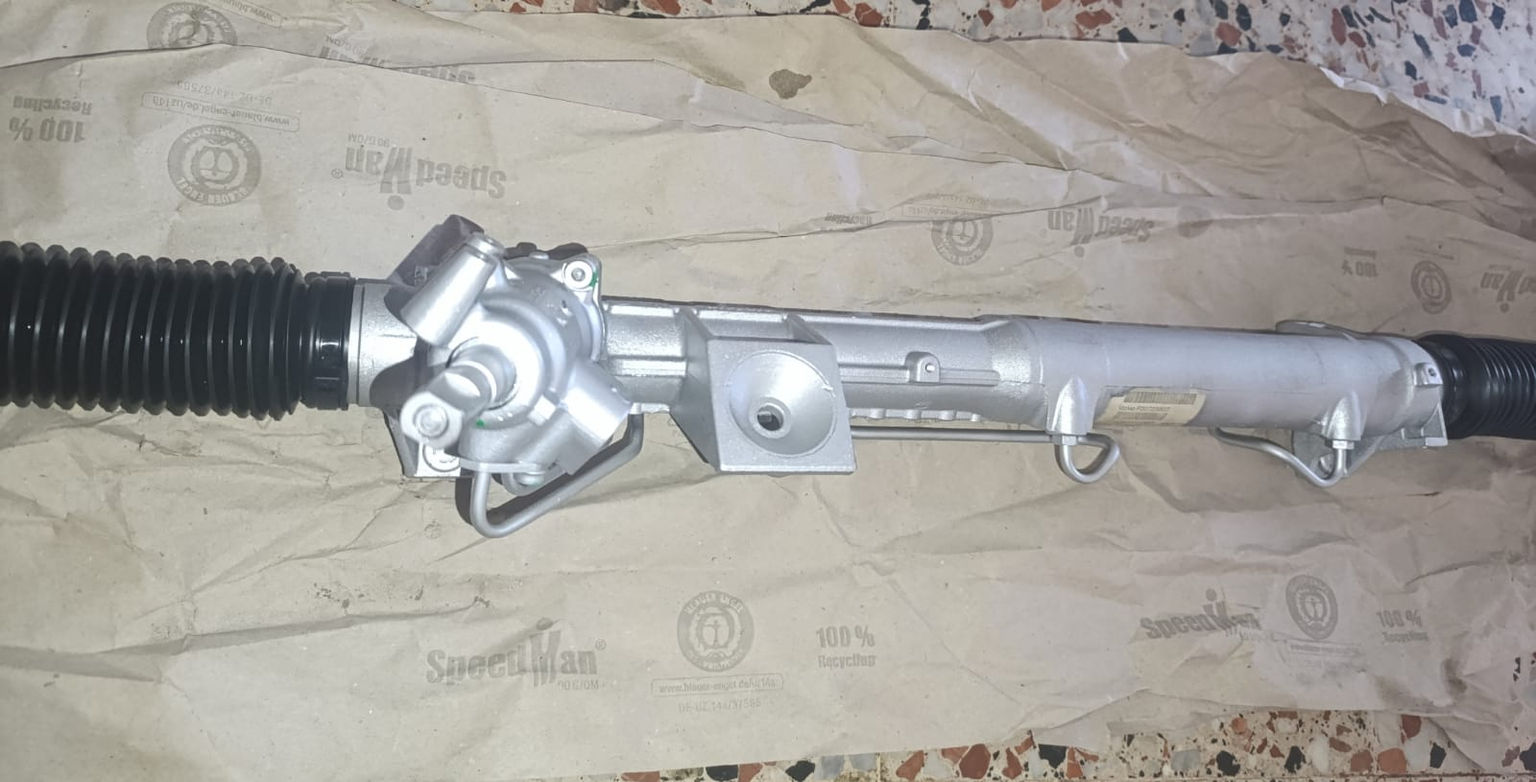
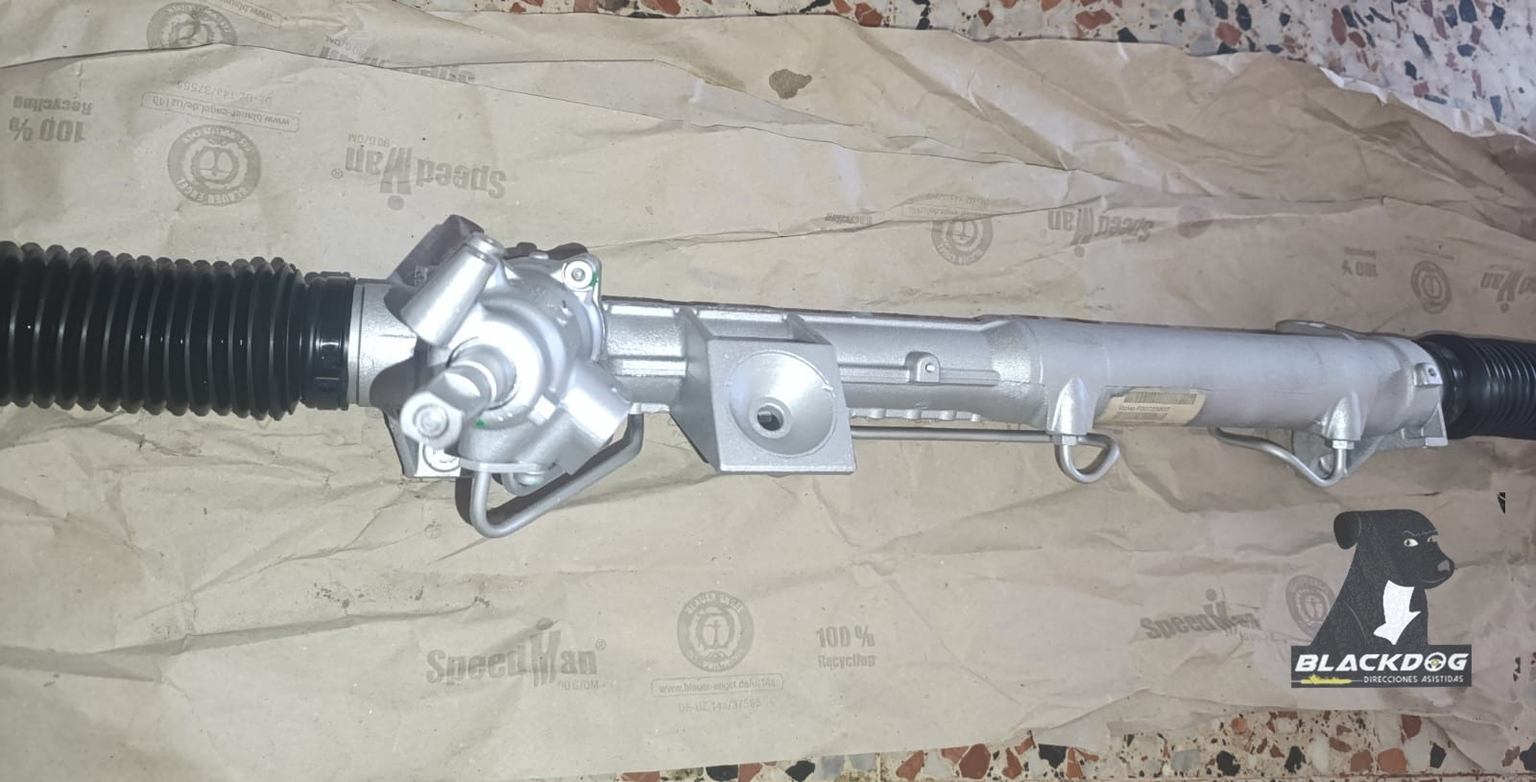
fix(volvo): incrustar la marca de agua en la foto en vez de CSS
El object-fit:contain de las tarjetas dejaba la marca de agua puesta por
CSS flotando en el espacio vacío cuando la foto no llenaba el recuadro.
Se incrusta el logo directamente en los pixeles de las 5 fotos del caso
XC70 (scripts/watermark-bake.ps1), igual que ya viene de fábrica en el
resto de fotos, y se quita el flag marca_agua para no duplicarla.

Changed region(s): [[0.8125, 0.6442, 0.9688, 0.8896]]

diff --git a/cremallera-volvo/caso-xc70-fuga-holgura-distribuidor/index.html b/cremallera-volvo/caso-xc70-fuga-holgura-distribuidor/index.html
@@ -1,4 +1,4 @@
-<!DOCTYPE html><!-- build:20260825015527 -->
+<!DOCTYPE html><!-- build:20260825020107 -->
 <html lang="es">
 <head>
 <meta charset="UTF-8">
@@ -34,7 +34,7 @@ j=d.createElement(s),dl=l!='dataLayer'?'&l='+l:'';j.async=true;j.src=
 </script>
 <meta name="robots" content="index, follow, max-snippet:-1, max-image-preview:large, max-video-preview:-1">
 <link rel="canonical" href="https://www.reparacion-cremallera-direccion.com/cremallera-volvo/caso-xc70-fuga-holgura-distribuidor/">
-<meta name="viewport" content="width=device-width, initial-scale=1.0"><link rel="stylesheet" href="/css/style.css?v=20260825015536">
+<meta name="viewport" content="width=device-width, initial-scale=1.0"><link rel="stylesheet" href="/css/style.css?v=20260825020107">
 <title>Volvo XC70 — Fuga y holgura en el distribuidor · Caso real · BLACKDOG</title>
 <meta name="description" content="Caso real: Volvo XC70, fuga y holgura en el distribuidor. Reparación documentada con fotos, sin inventar nada — BLACKDOG, Julián Márquez.">
 <meta property="og:title" content="Volvo XC70 — Fuga y holgura en el distribuidor · Caso real · BLACKDOG">
@@ -132,7 +132,7 @@ height="0" width="0" style="display:none;visibility:hidden"></iframe></noscript>
     <div class="modelo-ref" style="margin-top:6px">Referencia: Volvo P30723807</div>
   </div>
 
-  <div class="caso-hero-img foto-wm reveal" style="margin-top:24px">
+  <div class="caso-hero-img  reveal" style="margin-top:24px">
     <img src="/img/cremallera_reparada_volvo_xc70_fuga_holgura_distribuidor_terminada.jpg" alt="Cremallera de dirección Volvo XC70 reparada, terminada" loading="lazy">
   </div>
 
@@ -144,10 +144,10 @@ height="0" width="0" style="display:none;visibility:hidden"></iframe></noscript>
     <span class="eyebrow">La pieza llegó al taller</span>
   </div>
   <p style="color:var(--bone-dim)">Al revisarla, el problema no era solo la fuga que había avisado el otro taller: el distribuidor tenía una holgura considerable.</p>
-  <div class="caso-llegada-fotos reveal"><figure><div class="foto-wm"><img class="lightbox-img" src="/img/cremallera_volvo_xc70_distribuidor_antes_oxidado.jpg" loading="lazy" alt="Distribuidor Volvo XC70 antes de reparar, oxidado"></div><figcaption>Antes</figcaption></figure>
-<figure><div class="foto-wm"><img class="lightbox-img" src="/img/cremallera_volvo_xc70_fuga_liquido_hidraulico.jpg" loading="lazy" alt="Fuga de líquido hidráulico en cremallera Volvo XC70"></div><figcaption>La fuga que avisó el cliente</figcaption></figure>
-<figure><div class="foto-wm"><img class="lightbox-img" src="/img/cremallera_volvo_xc70_referencia_p30723807.jpg" loading="lazy" alt="Referencia Volvo P30723807 en la etiqueta de la pieza"></div><figcaption>Referencia P30723807</figcaption></figure>
-<figure><div class="foto-wm"><img class="lightbox-img" src="/img/cremallera_volvo_xc70_distribuidor_terminado_detalle.jpg" loading="lazy" alt="Distribuidor Volvo XC70 terminado, detalle"></div><figcaption>Después</figcaption></figure></div>
+  <div class="caso-llegada-fotos reveal"><figure><div class=""><img class="lightbox-img" src="/img/cremallera_volvo_xc70_distribuidor_antes_oxidado.jpg" loading="lazy" alt="Distribuidor Volvo XC70 antes de reparar, oxidado"></div><figcaption>Antes</figcaption></figure>
+<figure><div class=""><img class="lightbox-img" src="/img/cremallera_volvo_xc70_fuga_liquido_hidraulico.jpg" loading="lazy" alt="Fuga de líquido hidráulico en cremallera Volvo XC70"></div><figcaption>La fuga que avisó el cliente</figcaption></figure>
+<figure><div class=""><img class="lightbox-img" src="/img/cremallera_volvo_xc70_referencia_p30723807.jpg" loading="lazy" alt="Referencia Volvo P30723807 en la etiqueta de la pieza"></div><figcaption>Referencia P30723807</figcaption></figure>
+<figure><div class=""><img class="lightbox-img" src="/img/cremallera_volvo_xc70_distribuidor_terminado_detalle.jpg" loading="lazy" alt="Distribuidor Volvo XC70 terminado, detalle"></div><figcaption>Después</figcaption></figure></div>
 
   <div class="sec-head" style="margin-top:40px">
     <span class="eyebrow">Resultado</span>
@@ -187,6 +187,6 @@ height="0" width="0" style="display:none;visibility:hidden"></iframe></noscript>
   <div class="foot-bottom"><span>© BLACKDOG · Julián Márquez — Direcciones asistidas</span><span>Recibo y devuelvo piezas desde toda España</span></div>
 </div></footer>
 <a onclick="trackGA4('whatsapp_click',{location:'floating'})" class="wa-float" aria-label="WhatsApp" href="https://wa.me/34697501984?text=Hola%20Julian%2C%20tengo%20una%20cremallera%2Fcaja%20de%20direccion%20de%20un%20Volvo%20XC70%20%5Bano%5D.%20El%20problema%20es%20%5Bsintoma%5D.%20Vi%20el%20caso%20que%20teneis%20publicado%20y%20queria%20consultar%20el%20mio.%20Puedes%20decirme%20si%20tiene%20reparacion%20y%20darme%20una%20orientacion%20de%20precio%3F"><svg><use href="#wa"/></svg></a>
-<script src="/js/script.js?v=20260825015536"></script>
+<script src="/js/script.js?v=20260825020107"></script>
 </body>
 </html>

diff --git a/cremallera-alfa-romeo/caso-spider-pieza-donante/index.html b/cremallera-alfa-romeo/caso-spider-pieza-donante/index.html
@@ -1,4 +1,4 @@
-<!DOCTYPE html><!-- build:20260825015527 -->
+<!DOCTYPE html><!-- build:20260825020107 -->
 <html lang="es">
 <head>
 <meta charset="UTF-8">
@@ -34,7 +34,7 @@ j=d.createElement(s),dl=l!='dataLayer'?'&l='+l:'';j.async=true;j.src=
 </script>
 <meta name="robots" content="index, follow, max-snippet:-1, max-image-preview:large, max-video-preview:-1">
 <link rel="canonical" href="https://www.reparacion-cremallera-direccion.com/cremallera-alfa-romeo/caso-spider-pieza-donante/">
-<meta name="viewport" content="width=device-width, initial-scale=1.0"><link rel="stylesheet" href="/css/style.css?v=20260825015536">
+<meta name="viewport" content="width=device-width, initial-scale=1.0"><link rel="stylesheet" href="/css/style.css?v=20260825020107">
 <title>Alfa Romeo (pieza de donante Spider) — Pieza de donante, restauración preventiva · Caso real · BLACKDOG</title>
 <meta name="description" content="Caso real: Alfa Romeo (pieza de donante Spider), pieza de donante, restauración preventiva. Reparación documentada con fotos, sin inventar nada — BLACKDOG, Julián Márquez.">
 <meta property="og:title" content="Alfa Romeo (pieza de donante Spider) — Pieza de donante, restauración preventiva · Caso real · BLACKDOG">
@@ -184,6 +184,6 @@ height="0" width="0" style="display:none;visibility:hidden"></iframe></noscript>
   <div class="foot-bottom"><span>© BLACKDOG · Julián Márquez — Direcciones asistidas</span><span>Recibo y devuelvo piezas desde toda España</span></div>
 </div></footer>
 <a onclick="trackGA4('whatsapp_click',{location:'floating'})" class="wa-float" aria-label="WhatsApp" href="https://wa.me/34697501984?text=Hola%20Julian%2C%20tengo%20una%20cremallera%2Fcaja%20de%20direccion%20de%20un%20Alfa%20Romeo%20(pieza%20de%20donante%20Spider)%20%5Bano%5D.%20El%20problema%20es%20%5Bsintoma%5D.%20Vi%20el%20caso%20que%20teneis%20publicado%20y%20queria%20consultar%20el%20mio.%20Puedes%20decirme%20si%20tiene%20reparacion%20y%20darme%20una%20orientacion%20de%20precio%3F"><svg><use href="#wa"/></svg></a>
-<script src="/js/script.js?v=20260825015536"></script>
+<script src="/js/script.js?v=20260825020107"></script>
 </body>
 </html>

diff --git a/cremallera-audi/caso-seat-cordoba-ibiza-clasico-holgura-oxido/index.html b/cremallera-audi/caso-seat-cordoba-ibiza-clasico-holgura-oxido/index.html
@@ -1,4 +1,4 @@
-<!DOCTYPE html><!-- build:20260825015527 -->
+<!DOCTYPE html><!-- build:20260825020107 -->
 <html lang="es">
 <head>
 <meta charset="UTF-8">
@@ -34,7 +34,7 @@ j=d.createElement(s),dl=l!='dataLayer'?'&l='+l:'';j.async=true;j.src=
 </script>
 <meta name="robots" content="index, follow, max-snippet:-1, max-image-preview:large, max-video-preview:-1">
 <link rel="canonical" href="https://www.reparacion-cremallera-direccion.com/cremallera-audi/caso-seat-cordoba-ibiza-clasico-holgura-oxido/">
-<meta name="viewport" content="width=device-width, initial-scale=1.0"><link rel="stylesheet" href="/css/style.css?v=20260825015536">
+<meta name="viewport" content="width=device-width, initial-scale=1.0"><link rel="stylesheet" href="/css/style.css?v=20260825020107">
 <title>Seat Córdoba/Ibiza · VAG clásico — Holgura y óxido por la edad · Caso real · BLACKDOG</title>
 <meta name="description" content="Caso real: Seat Córdoba/Ibiza · VAG clásico, holgura y óxido por la edad. Reparación documentada con fotos, sin inventar nada — BLACKDOG, Julián Márquez.">
 <meta property="og:title" content="Seat Córdoba/Ibiza · VAG clásico — Holgura y óxido por la edad · Caso real · BLACKDOG">
@@ -184,6 +184,6 @@ height="0" width="0" style="display:none;visibility:hidden"></iframe></noscript>
   <div class="foot-bottom"><span>© BLACKDOG · Julián Márquez — Direcciones asistidas</span><span>Recibo y devuelvo piezas desde toda España</span></div>
 </div></footer>
 <a onclick="trackGA4('whatsapp_click',{location:'floating'})" class="wa-float" aria-label="WhatsApp" href="https://wa.me/34697501984?text=Hola%20Julian%2C%20tengo%20una%20cremallera%2Fcaja%20de%20direccion%20de%20un%20Seat%20C%C3%B3rdoba%2FIbiza%20%C2%B7%20VAG%20cl%C3%A1sico%20%5Bano%5D.%20El%20problema%20es%20%5Bsintoma%5D.%20Vi%20el%20caso%20que%20teneis%20publicado%20y%20queria%20consultar%20el%20mio.%20Puedes%20decirme%20si%20tiene%20reparacion%20y%20darme%20una%20orientacion%20de%20precio%3F"><svg><use href="#wa"/></svg></a>
-<script src="/js/script.js?v=20260825015536"></script>
+<script src="/js/script.js?v=20260825020107"></script>
 </body>
 </html>

diff --git a/cremallera-citroen/caso-berlingo-bx-partner-caja-valvulas/index.html b/cremallera-citroen/caso-berlingo-bx-partner-caja-valvulas/index.html
@@ -1,4 +1,4 @@
-<!DOCTYPE html><!-- build:20260825015527 -->
+<!DOCTYPE html><!-- build:20260825020107 -->
 <html lang="es">
 <head>
 <meta charset="UTF-8">
@@ -34,7 +34,7 @@ j=d.createElement(s),dl=l!='dataLayer'?'&l='+l:'';j.async=true;j.src=
 </script>
 <meta name="robots" content="index, follow, max-snippet:-1, max-image-preview:large, max-video-preview:-1">
 <link rel="canonical" href="https://www.reparacion-cremallera-direccion.com/cremallera-citroen/caso-berlingo-bx-partner-caja-valvulas/">
-<meta name="viewport" content="width=device-width, initial-scale=1.0"><link rel="stylesheet" href="/css/style.css?v=20260825015536">
+<meta name="viewport" content="width=device-width, initial-scale=1.0"><link rel="stylesheet" href="/css/style.css?v=20260825020107">
 <title>Citroën Berlingo/BX · Peugeot Partner — Caja de válvulas · Caso real · BLACKDOG</title>
 <meta name="description" content="Caso real: Citroën Berlingo/BX · Peugeot Partner, caja de válvulas. Reparación documentada con fotos, sin inventar nada — BLACKDOG, Julián Márquez.">
 <meta property="og:title" content="Citroën Berlingo/BX · Peugeot Partner — Caja de válvulas · Caso real · BLACKDOG">
@@ -184,6 +184,6 @@ height="0" width="0" style="display:none;visibility:hidden"></iframe></noscript>
   <div class="foot-bottom"><span>© BLACKDOG · Julián Márquez — Direcciones asistidas</span><span>Recibo y devuelvo piezas desde toda España</span></div>
 </div></footer>
 <a onclick="trackGA4('whatsapp_click',{location:'floating'})" class="wa-float" aria-label="WhatsApp" href="https://wa.me/34697501984?text=Hola%20Julian%2C%20tengo%20una%20cremallera%2Fcaja%20de%20direccion%20de%20un%20Citro%C3%ABn%20Berlingo%2FBX%20%C2%B7%20Peugeot%20Partner%20%5Bano%5D.%20El%20problema%20es%20%5Bsintoma%5D.%20Vi%20el%20caso%20que%20teneis%20publicado%20y%20queria%20consultar%20el%20mio.%20Puedes%20decirme%20si%20tiene%20reparacion%20y%20darme%20una%20orientacion%20de%20precio%3F"><svg><use href="#wa"/></svg></a>
-<script src="/js/script.js?v=20260825015536"></script>
+<script src="/js/script.js?v=20260825020107"></script>
 </body>
 </html>

diff --git a/cremallera-mercedes/caso-w107-clasico-holgura/index.html b/cremallera-mercedes/caso-w107-clasico-holgura/index.html
@@ -1,4 +1,4 @@
-<!DOCTYPE html><!-- build:20260825015527 -->
+<!DOCTYPE html><!-- build:20260825020107 -->
 <html lang="es">
 <head>
 <meta charset="UTF-8">
@@ -34,7 +34,7 @@ j=d.createElement(s),dl=l!='dataLayer'?'&l='+l:'';j.async=true;j.src=
 </script>
 <meta name="robots" content="index, follow, max-snippet:-1, max-image-preview:large, max-video-preview:-1">
 <link rel="canonical" href="https://www.reparacion-cremallera-direccion.com/cremallera-mercedes/caso-w107-clasico-holgura/">
-<meta name="viewport" content="width=device-width, initial-scale=1.0"><link rel="stylesheet" href="/css/style.css?v=20260825015536">
+<meta name="viewport" content="width=device-width, initial-scale=1.0"><link rel="stylesheet" href="/css/style.css?v=20260825020107">
 <title>Mercedes W107 (clásico) — Holgura enorme en la caja de dirección · Caso real · BLACKDOG</title>
 <meta name="description" content="Caso real: Mercedes W107 (clásico), holgura enorme en la caja de dirección. Reparación documentada con fotos, sin inventar nada — BLACKDOG, Julián Márquez.">
 <meta property="og:title" content="Mercedes W107 (clásico) — Holgura enorme en la caja de dirección · Caso real · BLACKDOG">
@@ -184,6 +184,6 @@ height="0" width="0" style="display:none;visibility:hidden"></iframe></noscript>
   <div class="foot-bottom"><span>© BLACKDOG · Julián Márquez — Direcciones asistidas</span><span>Recibo y devuelvo piezas desde toda España</span></div>
 </div></footer>
 <a onclick="trackGA4('whatsapp_click',{location:'floating'})" class="wa-float" aria-label="WhatsApp" href="https://wa.me/34697501984?text=Hola%20Julian%2C%20tengo%20una%20cremallera%2Fcaja%20de%20direccion%20de%20un%20Mercedes%20W107%20(cl%C3%A1sico)%20%5Bano%5D.%20El%20problema%20es%20%5Bsintoma%5D.%20Vi%20el%20caso%20que%20teneis%20publicado%20y%20queria%20consultar%20el%20mio.%20Puedes%20decirme%20si%20tiene%20reparacion%20y%20darme%20una%20orientacion%20de%20precio%3F"><svg><use href="#wa"/></svg></a>
-<script src="/js/script.js?v=20260825015536"></script>
+<script src="/js/script.js?v=20260825020107"></script>
 </body>
 </html>

diff --git a/cremallera-audi/caso-transporter-t5-fuga-eje-sustitucion/index.html b/cremallera-audi/caso-transporter-t5-fuga-eje-sustitucion/index.html
@@ -1,4 +1,4 @@
-<!DOCTYPE html><!-- build:20260825015527 -->
+<!DOCTYPE html><!-- build:20260825020107 -->
 <html lang="es">
 <head>
 <meta charset="UTF-8">
@@ -34,7 +34,7 @@ j=d.createElement(s),dl=l!='dataLayer'?'&l='+l:'';j.async=true;j.src=
 </script>
 <meta name="robots" content="index, follow, max-snippet:-1, max-image-preview:large, max-video-preview:-1">
 <link rel="canonical" href="https://www.reparacion-cremallera-direccion.com/cremallera-audi/caso-transporter-t5-fuga-eje-sustitucion/">
-<meta name="viewport" content="width=device-width, initial-scale=1.0"><link rel="stylesheet" href="/css/style.css?v=20260825015536">
+<meta name="viewport" content="width=device-width, initial-scale=1.0"><link rel="stylesheet" href="/css/style.css?v=20260825020107">
 <title>Volkswagen Transporter T5 — Fuga, reparación previa fallida · Caso real · BLACKDOG</title>
 <meta name="description" content="Caso real: Volkswagen Transporter T5, fuga, reparación previa fallida. Reparación documentada con fotos, sin inventar nada — BLACKDOG, Julián Márquez.">
 <meta property="og:title" content="Volkswagen Transporter T5 — Fuga, reparación previa fallida · Caso real · BLACKDOG">
@@ -184,6 +184,6 @@ height="0" width="0" style="display:none;visibility:hidden"></iframe></noscript>
   <div class="foot-bottom"><span>© BLACKDOG · Julián Márquez — Direcciones asistidas</span><span>Recibo y devuelvo piezas desde toda España</span></div>
 </div></footer>
 <a onclick="trackGA4('whatsapp_click',{location:'floating'})" class="wa-float" aria-label="WhatsApp" href="https://wa.me/34697501984?text=Hola%20Julian%2C%20tengo%20una%20cremallera%2Fcaja%20de%20direccion%20de%20un%20Volkswagen%20Transporter%20T5%20%5Bano%5D.%20El%20problema%20es%20%5Bsintoma%5D.%20Vi%20el%20caso%20que%20teneis%20publicado%20y%20queria%20consultar%20el%20mio.%20Puedes%20decirme%20si%20tiene%20reparacion%20y%20darme%20una%20orientacion%20de%20precio%3F"><svg><use href="#wa"/></svg></a>
-<script src="/js/script.js?v=20260825015536"></script>
+<script src="/js/script.js?v=20260825020107"></script>
 </body>
 </html>

diff --git a/cremallera-jaguar/caso-clasico-sin-pintar/index.html b/cremallera-jaguar/caso-clasico-sin-pintar/index.html
@@ -1,4 +1,4 @@
-<!DOCTYPE html><!-- build:20260825015527 -->
+<!DOCTYPE html><!-- build:20260825020107 -->
 <html lang="es">
 <head>
 <meta charset="UTF-8">
@@ -34,7 +34,7 @@ j=d.createElement(s),dl=l!='dataLayer'?'&l='+l:'';j.async=true;j.src=
 </script>
 <meta name="robots" content="index, follow, max-snippet:-1, max-image-preview:large, max-video-preview:-1">
 <link rel="canonical" href="https://www.reparacion-cremallera-direccion.com/cremallera-jaguar/caso-clasico-sin-pintar/">
-<meta name="viewport" content="width=device-width, initial-scale=1.0"><link rel="stylesheet" href="/css/style.css?v=20260825015536">
+<meta name="viewport" content="width=device-width, initial-scale=1.0"><link rel="stylesheet" href="/css/style.css?v=20260825020107">
 <title>Jaguar (modelo clásico) — Reparada sin pintar, a petición · Caso real · BLACKDOG</title>
 <meta name="description" content="Caso real: Jaguar (modelo clásico), reparada sin pintar, a petición. Reparación documentada con fotos, sin inventar nada — BLACKDOG, Julián Márquez.">
 <meta property="og:title" content="Jaguar (modelo clásico) — Reparada sin pintar, a petición · Caso real · BLACKDOG">
@@ -184,6 +184,6 @@ height="0" width="0" style="display:none;visibility:hidden"></iframe></noscript>
   <div class="foot-bottom"><span>© BLACKDOG · Julián Márquez — Direcciones asistidas</span><span>Recibo y devuelvo piezas desde toda España</span></div>
 </div></footer>
 <a onclick="trackGA4('whatsapp_click',{location:'floating'})" class="wa-float" aria-label="WhatsApp" href="https://wa.me/34697501984?text=Hola%20Julian%2C%20tengo%20una%20cremallera%2Fcaja%20de%20direccion%20de%20un%20Jaguar%20(modelo%20cl%C3%A1sico)%20%5Bano%5D.%20El%20problema%20es%20%5Bsintoma%5D.%20Vi%20el%20caso%20que%20teneis%20publicado%20y%20queria%20consultar%20el%20mio.%20Puedes%20decirme%20si%20tiene%20reparacion%20y%20darme%20una%20orientacion%20de%20precio%3F"><svg><use href="#wa"/></svg></a>
-<script src="/js/script.js?v=20260825015536"></script>
+<script src="/js/script.js?v=20260825020107"></script>
 </body>
 </html>

diff --git a/cremallera-toyota/caso-land-cruiser-holgura-oxido/index.html b/cremallera-toyota/caso-land-cruiser-holgura-oxido/index.html
@@ -1,4 +1,4 @@
-<!DOCTYPE html><!-- build:20260825015527 -->
+<!DOCTYPE html><!-- build:20260825020107 -->
 <html lang="es">
 <head>
 <meta charset="UTF-8">
@@ -34,7 +34,7 @@ j=d.createElement(s),dl=l!='dataLayer'?'&l='+l:'';j.async=true;j.src=
 </script>
 <meta name="robots" content="index, follow, max-snippet:-1, max-image-preview:large, max-video-preview:-1">
 <link rel="canonical" href="https://www.reparacion-cremallera-direccion.com/cremallera-toyota/caso-land-cruiser-holgura-oxido/">
-<meta name="viewport" content="width=device-width, initial-scale=1.0"><link rel="stylesheet" href="/css/style.css?v=20260825015536">
+<meta name="viewport" content="width=device-width, initial-scale=1.0"><link rel="stylesheet" href="/css/style.css?v=20260825020107">
 <title>Toyota Land Cruiser — Holgura y óxido en la cremallera · Caso real · BLACKDOG</title>
 <meta name="description" content="Caso real: Toyota Land Cruiser, holgura y óxido en la cremallera. Reparación documentada con fotos, sin inventar nada — BLACKDOG, Julián Márquez.">
 <meta property="og:title" content="Toyota Land Cruiser — Holgura y óxido en la cremallera · Caso real · BLACKDOG">
@@ -184,6 +184,6 @@ height="0" width="0" style="display:none;visibility:hidden"></iframe></noscript>
   <div class="foot-bottom"><span>© BLACKDOG · Julián Márquez — Direcciones asistidas</span><span>Recibo y devuelvo piezas desde toda España</span></div>
 </div></footer>
 <a onclick="trackGA4('whatsapp_click',{location:'floating'})" class="wa-float" aria-label="WhatsApp" href="https://wa.me/34697501984?text=Hola%20Julian%2C%20tengo%20una%20cremallera%2Fcaja%20de%20direccion%20de%20un%20Toyota%20Land%20Cruiser%20%5Bano%5D.%20El%20problema%20es%20%5Bsintoma%5D.%20Vi%20el%20caso%20que%20teneis%20publicado%20y%20queria%20consultar%20el%20mio.%20Puedes%20decirme%20si%20tiene%20reparacion%20y%20darme%20una%20orientacion%20de%20precio%3F"><svg><use href="#wa"/></svg></a>
-<script src="/js/script.js?v=20260825015536"></script>
+<script src="/js/script.js?v=20260825020107"></script>
 </body>
 </html>

diff --git a/cremallera-bmw/caso-direccion-activa-mal-embalada-conectores-rotos/index.html b/cremallera-bmw/caso-direccion-activa-mal-embalada-conectores-rotos/index.html
@@ -1,4 +1,4 @@
-<!DOCTYPE html><!-- build:20260825015527 -->
+<!DOCTYPE html><!-- build:20260825020107 -->
 <html lang="es">
 <head>
 <meta charset="UTF-8">
@@ -34,7 +34,7 @@ j=d.createElement(s),dl=l!='dataLayer'?'&l='+l:'';j.async=true;j.src=
 </script>
 <meta name="robots" content="index, follow, max-snippet:-1, max-image-preview:large, max-video-preview:-1">
 <link rel="canonical" href="https://www.reparacion-cremallera-direccion.com/cremallera-bmw/caso-direccion-activa-mal-embalada-conectores-rotos/">
-<meta name="viewport" content="width=device-width, initial-scale=1.0"><link rel="stylesheet" href="/css/style.css?v=20260825015536">
+<meta name="viewport" content="width=device-width, initial-scale=1.0"><link rel="stylesheet" href="/css/style.css?v=20260825020107">
 <title>BMW — Dirección activa, conectores rotos en el envío · Caso real · BLACKDOG</title>
 <meta name="description" content="Caso real: BMW, dirección activa, conectores rotos en el envío. Reparación documentada con fotos, sin inventar nada — BLACKDOG, Julián Márquez.">
 <meta property="og:title" content="BMW — Dirección activa, conectores rotos en el envío · Caso real · BLACKDOG">
@@ -184,6 +184,6 @@ height="0" width="0" style="display:none;visibility:hidden"></iframe></noscript>
   <div class="foot-bottom"><span>© BLACKDOG · Julián Márquez — Direcciones asistidas</span><span>Recibo y devuelvo piezas desde toda España</span></div>
 </div></footer>
 <a onclick="trackGA4('whatsapp_click',{location:'floating'})" class="wa-float" aria-label="WhatsApp" href="https://wa.me/34697501984?text=Hola%20Julian%2C%20tengo%20una%20cremallera%2Fcaja%20de%20direccion%20de%20un%20BMW%20%5Bano%5D.%20El%20problema%20es%20%5Bsintoma%5D.%20Vi%20el%20caso%20que%20teneis%20publicado%20y%20queria%20consultar%20el%20mio.%20Puedes%20decirme%20si%20tiene%20reparacion%20y%20darme%20una%20orientacion%20de%20precio%3F"><svg><use href="#wa"/></svg></a>
-<script src="/js/script.js?v=20260825015536"></script>
+<script src="/js/script.js?v=20260825020107"></script>
 </body>
 </html>

diff --git a/cremallera-renault/caso-kangoo-4x4-oxido-eje-sustitucion/index.html b/cremallera-renault/caso-kangoo-4x4-oxido-eje-sustitucion/index.html
@@ -1,4 +1,4 @@
-<!DOCTYPE html><!-- build:20260825015527 -->
+<!DOCTYPE html><!-- build:20260825020107 -->
 <html lang="es">
 <head>
 <meta charset="UTF-8">
@@ -34,7 +34,7 @@ j=d.createElement(s),dl=l!='dataLayer'?'&l='+l:'';j.async=true;j.src=
 </script>
 <meta name="robots" content="index, follow, max-snippet:-1, max-image-preview:large, max-video-preview:-1">
 <link rel="canonical" href="https://www.reparacion-cremallera-direccion.com/cremallera-renault/caso-kangoo-4x4-oxido-eje-sustitucion/">
-<meta name="viewport" content="width=device-width, initial-scale=1.0"><link rel="stylesheet" href="/css/style.css?v=20260825015536">
+<meta name="viewport" content="width=device-width, initial-scale=1.0"><link rel="stylesheet" href="/css/style.css?v=20260825020107">
 <title>Renault Kangoo 4x4 — Óxido, eje de sustitución · Caso real · BLACKDOG</title>
 <meta name="description" content="Caso real: Renault Kangoo 4x4, óxido, eje de sustitución. Reparación documentada con fotos, sin inventar nada — BLACKDOG, Julián Márquez.">
 <meta property="og:title" content="Renault Kangoo 4x4 — Óxido, eje de sustitución · Caso real · BLACKDOG">
@@ -184,6 +184,6 @@ height="0" width="0" style="display:none;visibility:hidden"></iframe></noscript>
   <div class="foot-bottom"><span>© BLACKDOG · Julián Márquez — Direcciones asistidas</span><span>Recibo y devuelvo piezas desde toda España</span></div>
 </div></footer>
 <a onclick="trackGA4('whatsapp_click',{location:'floating'})" class="wa-float" aria-label="WhatsApp" href="https://wa.me/34697501984?text=Hola%20Julian%2C%20tengo%20una%20cremallera%2Fcaja%20de%20direccion%20de%20un%20Renault%20Kangoo%204x4%20%5Bano%5D.%20El%20problema%20es%20%5Bsintoma%5D.%20Vi%20el%20caso%20que%20teneis%20publicado%20y%20queria%20consultar%20el%20mio.%20Puedes%20decirme%20si%20tiene%20reparacion%20y%20darme%20una%20orientacion%20de%20precio%3F"><svg><use href="#wa"/></svg></a>
-<script src="/js/script.js?v=20260825015536"></script>
+<script src="/js/script.js?v=20260825020107"></script>
 </body>
 </html>

diff --git a/cremallera-bmw/caso-direccion-activa-reparacion-previa-fallida/index.html b/cremallera-bmw/caso-direccion-activa-reparacion-previa-fallida/index.html
@@ -1,4 +1,4 @@
-<!DOCTYPE html><!-- build:20260825015527 -->
+<!DOCTYPE html><!-- build:20260825020107 -->
 <html lang="es">
 <head>
 <meta charset="UTF-8">
@@ -34,7 +34,7 @@ j=d.createElement(s),dl=l!='dataLayer'?'&l='+l:'';j.async=true;j.src=
 </script>
 <meta name="robots" content="index, follow, max-snippet:-1, max-image-preview:large, max-video-preview:-1">
 <link rel="canonical" href="https://www.reparacion-cremallera-direccion.com/cremallera-bmw/caso-direccion-activa-reparacion-previa-fallida/">
-<meta name="viewport" content="width=device-width, initial-scale=1.0"><link rel="stylesheet" href="/css/style.css?v=20260825015536">
+<meta name="viewport" content="width=device-width, initial-scale=1.0"><link rel="stylesheet" href="/css/style.css?v=20260825020107">
 <title>BMW — Dirección activa, reparación previa fallida · Caso real · BLACKDOG</title>
 <meta name="description" content="Caso real: BMW, dirección activa, reparación previa fallida. Reparación documentada con fotos, sin inventar nada — BLACKDOG, Julián Márquez.">
 <meta property="og:title" content="BMW — Dirección activa, reparación previa fallida · Caso real · BLACKDOG">
@@ -184,6 +184,6 @@ height="0" width="0" style="display:none;visibility:hidden"></iframe></noscript>
   <div class="foot-bottom"><span>© BLACKDOG · Julián Márquez — Direcciones asistidas</span><span>Recibo y devuelvo piezas desde toda España</span></div>
 </div></footer>
 <a onclick="trackGA4('whatsapp_click',{location:'floating'})" class="wa-float" aria-label="WhatsApp" href="https://wa.me/34697501984?text=Hola%20Julian%2C%20tengo%20una%20cremallera%2Fcaja%20de%20direccion%20de%20un%20BMW%20%5Bano%5D.%20El%20problema%20es%20%5Bsintoma%5D.%20Vi%20el%20caso%20que%20teneis%20publicado%20y%20queria%20consultar%20el%20mio.%20Puedes%20decirme%20si%20tiene%20reparacion%20y%20darme%20una%20orientacion%20de%20precio%3F"><svg><use href="#wa"/></svg></a>
-<script src="/js/script.js?v=20260825015536"></script>
+<script src="/js/script.js?v=20260825020107"></script>
 </body>
 </html>

diff --git a/cremallera-mercedes/caso-w205-servotronic/index.html b/cremallera-mercedes/caso-w205-servotronic/index.html
@@ -1,4 +1,4 @@
-<!DOCTYPE html><!-- build:20260825015527 -->
+<!DOCTYPE html><!-- build:20260825020107 -->
 <html lang="es">
 <head>
 <meta charset="UTF-8">
@@ -34,7 +34,7 @@ j=d.createElement(s),dl=l!='dataLayer'?'&l='+l:'';j.async=true;j.src=
 </script>
 <meta name="robots" content="index, follow, max-snippet:-1, max-image-preview:large, max-video-preview:-1">
 <link rel="canonical" href="https://www.reparacion-cremallera-direccion.com/cremallera-mercedes/caso-w205-servotronic/">
-<meta name="viewport" content="width=device-width, initial-scale=1.0"><link rel="stylesheet" href="/css/style.css?v=20260825015536">
+<meta name="viewport" content="width=device-width, initial-scale=1.0"><link rel="stylesheet" href="/css/style.css?v=20260825020107">
 <title>Mercedes W205 · Servotronic — Servotronic · Caso real · BLACKDOG</title>
 <meta name="description" content="Caso real: Mercedes W205 · Servotronic, servotronic. Reparación documentada con fotos, sin inventar nada — BLACKDOG, Julián Márquez.">
 <meta property="og:title" content="Mercedes W205 · Servotronic — Servotronic · Caso real · BLACKDOG">
@@ -184,6 +184,6 @@ height="0" width="0" style="display:none;visibility:hidden"></iframe></noscript>
   <div class="foot-bottom"><span>© BLACKDOG · Julián Márquez — Direcciones asistidas</span><span>Recibo y devuelvo piezas desde toda España</span></div>
 </div></footer>
 <a onclick="trackGA4('whatsapp_click',{location:'floating'})" class="wa-float" aria-label="WhatsApp" href="https://wa.me/34697501984?text=Hola%20Julian%2C%20tengo%20una%20cremallera%2Fcaja%20de%20direccion%20de%20un%20Mercedes%20W205%20%C2%B7%20Servotronic%20%5Bano%5D.%20El%20problema%20es%20%5Bsintoma%5D.%20Vi%20el%20caso%20que%20teneis%20publicado%20y%20queria%20consultar%20el%20mio.%20Puedes%20decirme%20si%20tiene%20reparacion%20y%20darme%20una%20orientacion%20de%20precio%3F"><svg><use href="#wa"/></svg></a>
-<script src="/js/script.js?v=20260825015536"></script>
+<script src="/js/script.js?v=20260825020107"></script>
 </body>
 </html>
